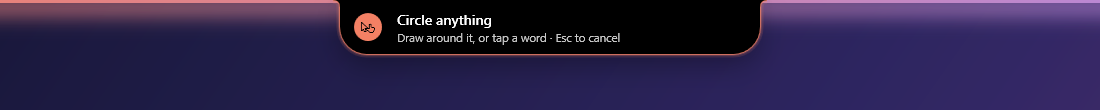
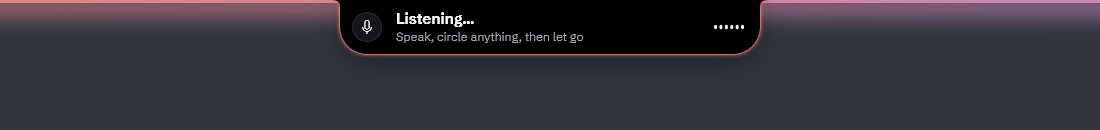
Retake the remaining README screenshots
Edge flash, listening, circle, phone and results now show the current design on the same plain backdrop. The phone card uses an example address through a test-pipe-only setting, so the image and its QR code don't show this PC's real one.

diff --git a/src/Shammy.App/Modules/PhoneSend/PhoneTransfer.cs b/src/Shammy.App/Modules/PhoneSend/PhoneTransfer.cs
@@ -41,7 +41,9 @@ internal sealed class PhoneTransfer : IDisposable
         _server.FileReceived += p => ctx.Ui.BeginInvoke(() => OnReceived(p));
         _server.Warning += (message, ex) => ctx.Warn(message, ex);
         _server.Start();
-        Url = $"http://{address}:{_server.Port}/{_server.Token}";
+        // Test pipe only: an example address on the card, so screenshots don't show where this PC really is.
+        var shown = Infrastructure.CommandServer.IsEnabled && Environment.GetEnvironmentVariable("SHAMMY_TEST_LAN_ADDRESS") is { Length: > 0 } test ? test : address.ToString();
+        Url = $"http://{shown}:{_server.Port}/{_server.Token}";
         _timer = new DispatcherTimer(TimeSpan.FromMilliseconds(200), DispatcherPriority.Background, (_, _) => Tick(), ctx.Ui);
         try
         {
